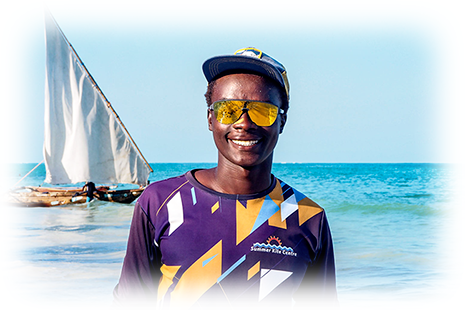
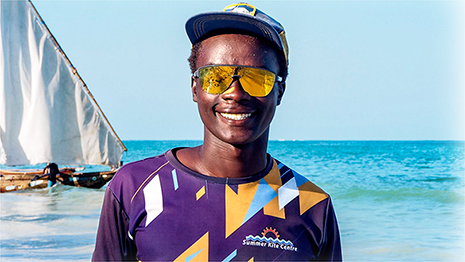
img src update

diff --git a/main.html b/main.html
@@ -88,8 +88,9 @@
                             <picture>
                             <source media="(min-width:465px)" srcset="./imagesupd/teacher-photo-465p.png">
                             <source media="(min-width:650px)" srcset="./imagesupd/teacher-photo-650p.png">
-                            <img src="./imagesupd/teacher-photo-650p.png" 
-                            alt="photo of the teacher, Paje Beach, Zanzibar" style="width:auto;">
+                            <source media="(min-width:770px)" srcset="./imagesupd/teacher-photo-770p.png">
+                            <img src="./imagesupd/teacher-photo-770p.png" 
+                            alt="photo of the teacher on a beach, in Paje Beach, Zanzibar" style="width:auto;">
                             </picture>
                         </div>
                       </div>
@@ -114,9 +115,10 @@
                         <h3 class="h3-main">It's time, change your DAY</h3>
                         <div class="element-main-accomodation-container">
                           <picture>
-                            <source media="(min-width:465px)" srcset="./imagesupd/monkey-465p.png">
-                            <source media="(min-width:650px)" srcset="./imagesupd/monkey-650p.png">
-                            <img src="./imagesupd/monkey-650p.png" alt="photo of the lagoon, Paje Beach, Zanzibar" style="width:auto;">
+                            <source media="(min-width:465px)" srcset="./imagesupd/photo-man-sleeping-in-hammoc-465p.png">
+                            <source media="(min-width:650px)" srcset="./imagesupd/photo-man-sleeping-in-hammoc-650p.png">
+                            <source media="(min-width:770px)" srcset="./imagesupd/photo-man-sleeping-in-hammoc-770p.png">
+                            <img src="./imagesupd/photo-man-sleeping-in-hammoc-770p.png" alt="photo of the lagoon, Paje Beach, Zanzibar" style="width:auto;">
                           </picture>
                         </div>
                         <div class="paragraph-box2">
